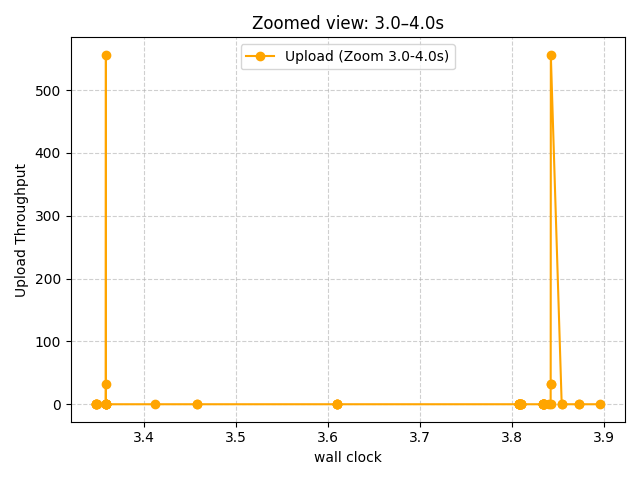
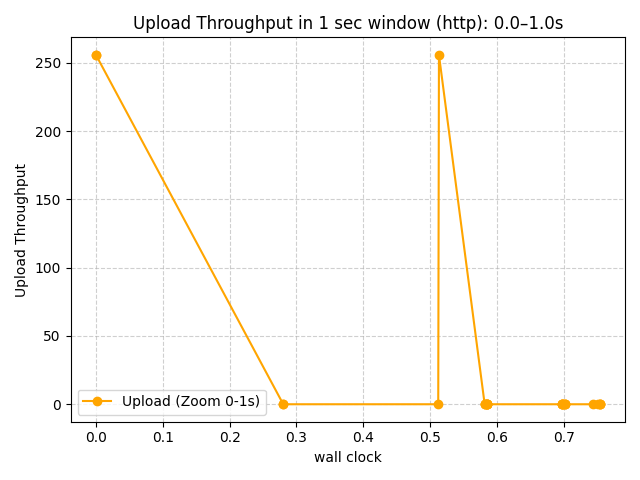
rtt working

diff --git a/traffic_analysis.py b/traffic_analysis.py
@@ -5,7 +5,7 @@ from collections import defaultdict
 import argparse
 
 # # ----------- CONFIG -------------
-# PCAP_FILE = "capture.pcap"
+# pcap_filename = "capture.pcap"
 # CLIENT_IP = "192.168.1.10"   # <-- replace with your machine's IP
 # WINDOW = 1.0                 # seconds (for throughput bins)
 # # --------------------------------
@@ -25,7 +25,7 @@ import argparse
 # # TCP tracking for RTT
 # unacked = {}  # key=(src,dst,seq) → timestamp
 
-# with open(PCAP_FILE, "rb") as f:
+# with open(pcap_filename, "rb") as f:
 #     pcap = dpkt.pcap.Reader(f)
 #     start_ts = None
     
@@ -46,7 +46,6 @@ import argparse
 #             continue
         
 #         tcp = ip.data
-        
 #         # Throughput classification (upload/download)
 #         window = int(rel_ts // WINDOW)
 #         if src == CLIENT_IP:
@@ -138,12 +137,12 @@ def perform_thpt(client_ip:str, server_ip:str, do_upload:bool, pcap_filename:str
     """
     client_ip_bytes = get_bytes_from_ip(client_ip)
     server_ip_bytes = get_bytes_from_ip(server_ip)
-    time_load_dict = {}
+    clock_thpt_dict = {}
     with open(pcap_filename, 'rb') as f:
         pcap = dpkt.pcap.Reader(f)
-        # ts is float (possibly the memory)
+        # time_stamp is the time stamp wireshark notes the packet
         # buffered_data is in bytes
-        cnt = 0
+        # so at time time_stamp, NIC saw these buffer_data on the wire
         start_time_stamp = None
         for time_stamp, buffered_data in pcap:
             if start_time_stamp is None:
@@ -151,78 +150,100 @@ def perform_thpt(client_ip:str, server_ip:str, do_upload:bool, pcap_filename:str
 
             time_duration = time_stamp - start_time_stamp
             
-            # initial assignment, peace
-            if time_duration not in time_load_dict:
-                time_load_dict[time_duration] = 0
+            # initial assignment
+            if time_duration not in clock_thpt_dict:
+                clock_thpt_dict[time_duration] = 0
             
             
             eth = dpkt.ethernet.Ethernet(buffered_data)
-            cnt += 1
             ip_data = eth.data
             
             if not isinstance(ip_data, dpkt.ip.IP):
-                print(f"skipping {time_duration}, ip mismatch")
+                # print(f"skipping {time_duration}, ip mismatch")
                 continue
             
             dst = ip_data.dst
             src = ip_data.src
             
-            if dst!=server_ip and src!=server_ip: continue
-
             tcp_data = ip_data.data
             
             if not isinstance(tcp_data, dpkt.tcp.TCP):
-                print(f"skipping {time_duration}, tcp mismatch")
                 continue
 
-            # print(f"{src} {dst} {client_ip_bytes}")
             if do_upload:
-                if src==client_ip_bytes: # may need to modify according to exactly server and client exchanges
-                    time_load_dict[time_duration] += len(tcp_data)
+                if src==client_ip_bytes and dst==server_ip_bytes: 
+                    clock_thpt_dict[time_duration] += len(tcp_data)
             else:
-                if dst==client_ip_bytes: # may need to modify according to exactly server and client exchanges
-                    time_load_dict[time_duration] += len(tcp_data)
+                if src==server_ip_bytes and dst==client_ip_bytes: 
+                    clock_thpt_dict[time_duration] += len(tcp_data)
 
-    print(time_load_dict)
-    print(cnt)
-    return [list(time_load_dict.keys()), list(time_load_dict.values())]
+    # print(clock_thpt_dict)
+    return list(clock_thpt_dict.keys()), list(clock_thpt_dict.values())
 
 def perform_rtt(client_ip:str, server_ip:str, do_upload:bool, pcap_filename:str) -> tuple[list]:
     """
     performs rtt analysis and return time and rtt variation
     """
-    pass # TODO
+    print(f"working with: client_ip: {client_ip}, server_ip: {server_ip} and pcap_filename: {pcap_filename}")
+    client_ip_bytes = get_bytes_from_ip(client_ip)
+    server_ip_bytes = get_bytes_from_ip(server_ip)
+    clock_rtt_dict = {}
+    to_ack = {}
+    with open(pcap_filename, 'rb') as f:
+        pcap = dpkt.pcap.Reader(f)
 
-import matplotlib.pyplot as plt
+        start_time = None
+        for time_stamp, buffered_data in pcap:
+            if start_time is None:
+                start_time = time_stamp
+            
+            time_duration = time_stamp - start_time
 
-def plot(x: list[float], y: list[float], xlabel: str, ylabel: str, label: str, title: str, save_loc: str, window_start: float = 3.0) -> None:
+            if time_duration not in clock_rtt_dict:
+                clock_rtt_dict[time_duration] = 0
+            
+            eth = dpkt.ethernet.Ethernet(buffered_data)
+
+            if not isinstance(eth.data, dpkt.ip.IP): continue
+
+            ip_data = eth.data
+
+            if not isinstance(ip_data.data, dpkt.tcp.TCP): continue
+
+            tcp_data = ip_data.data
+
+            src = ip_data.src
+            dst = ip_data.dst
+            
+            if src==client_ip_bytes and dst==server_ip_bytes:
+                key = tcp_data.seq + len(tcp_data.data)
+                to_ack[key] = time_duration
+                
+            elif src==server_ip_bytes and dst==client_ip_bytes:
+                key = tcp_data.ack
+                if key in to_ack:
+                    clock_rtt_dict[time_duration] = time_duration - to_ack[key]
+                    print(clock_rtt_dict[time_duration])
+    print(f"number of rtts recorded: {len(clock_rtt_dict)}")
+    return list(clock_rtt_dict.keys()), list(clock_rtt_dict.values())
+
+
+def plot(x: list[float], y: list[float], xlabel: str, ylabel: str, label: str, title: str, save_loc: str, window_start: float = 3.0, window_length:float=1e9) -> None:
     """
     General purpose plotter.
     Adds a subplot zoomed into a 1-second window [window_start, window_start+1).
     """
-    # # Full plot
-    # plt.figure(figsize=(10, 6))
-    # plt.subplot(2, 1, 1)
-    # plt.plot(x, y, label=label)
-    # plt.xlabel(xlabel)
-    # plt.ylabel(ylabel)
-    # plt.title(title + " (Full)")
-    # plt.legend()
-    # plt.grid(True, linestyle="--", alpha=0.6)
-
-    # 1-second window plot
     x_window, y_window = [], []
     for xi, yi in zip(x, y):
-        if window_start <= xi < window_start + 1:
+        if window_start <= xi < window_start + window_length:
             x_window.append(xi)
             y_window.append(yi)
 
-    # plt.subplot(2, 1, 2)
     if x_window:
         plt.plot(x_window, y_window, marker="o", color="orange", label=f"{label} (Zoom {window_start}-{window_start+1}s)")
     plt.xlabel(xlabel)
     plt.ylabel(ylabel)
-    plt.title(f"Zoomed view: {window_start:.1f}–{window_start+1:.1f}s")
+    plt.title(title)
     plt.legend()
     plt.grid(True, linestyle="--", alpha=0.6)
 
@@ -250,7 +271,7 @@ if __name__ == '__main__':
     do_upload = args.up
     do_download = args.down
     do_rtt = args.rtt
-    pcap_file = args.file
+    pcap_filename = args.file
 
     print(f"""
         client_ip = {args.client}
@@ -262,27 +283,29 @@ if __name__ == '__main__':
     """)
 
     if do_thpt:
-        x, y =perform_thpt(client_ip, server_ip, do_upload, "http.pcap")
+        x, y =perform_thpt(client_ip, server_ip, do_upload, pcap_filename)
+        y = [i * 8 for i in y] # for bits conversion from bytes
     
     else:
-        x, y = perform_rtt(client_ip, server_ip, do_upload)
+        x, y = perform_rtt(client_ip, server_ip, True, pcap_filename)
 
     # Plotting, can be made more effi
+    is_s = pcap_filename.split(".")[0][-1]=="s"
     if do_thpt:
         if do_upload:
-            save_loc = "up_throughput_s.png"
-            title = "Upload Throughput in 1 sec window"
+            save_loc = f"up_throughput{"_s" if is_s else ""}.png"
+            title = f"Upload Throughput in 1 sec window (http{"s" if is_s else ""})"
             ylabel = "Upload Throughput"
             label = "Upload"
         else:
-            save_loc = "down_throughput_s.png"
-            title = "Download Throughput in 1 sec window"
+            save_loc = f"down_throughput{"_s" if is_s else ""}.png"
+            title = f"Download Throughput in 1 sec window (http{"s" if is_s else ""})"
             ylabel = "Download Throughput"
             label = "Download"
     if do_rtt:
-        save_loc = "rtt_s.png"
-        title = "RTT in 1 sec window"
+        save_loc = f"rtt{"_s" if is_s else ""}.png"
+        title = f"RTT (http{"s" if is_s else ""})"
         ylabel = "RTT"
         label = "RTT"
 
-    plot(x, y, "wall clock", ylabel, label, title, save_loc)
+    plot(x, y, "wall clock", ylabel, label, title, save_loc, window_start=0)

diff --git a/Notes.md b/Notes.md
@@ -90,6 +90,7 @@
 - difference is that ethernet is cabled and wifi is not cabled
 - sudo apt net-tools for all the network tools such as ipconfig, ifconf
 - \- is converted to _ in parser.parse_args().<can use _ here>
+- chatgpt blends with convos, but google searches are rigid
 
 ## Submission
 
@@ -158,7 +159,37 @@ HTTP (Application Layer)    HTTP (Application Layer)
         TCP -------------------------- TCP 
            (this establishes connection)
 - so you build a port throigh which you can make transfers
+- the assurance of having data reliability loosens the constraint of programmer having to write data transfer codes (or any such relibility codes or communication safeguard softwares) whatsoever
+- TCP can tranfer continuous 8 bit octets in both direcctions by packaging some number of bytes into segs for transmission across the internet system
+- in general TCP decides when to block and allow packets in its own convienice
+- TCP must be able to recover data that is lost, duplicated, damaged, out of order by the internet.
+- Handles all this by attaching numbers to packets and recieving ACK from reciever.
+- if ACK is not recieved in the time out interval, the data is retransmitted
+- TCP time-out value is determined dynamically for each system, based on its round trip times
+- the sequence numbers may be used order the packets and eliminate dups
+- Checksum, ensures no damage, by checking them at the reciever and sending RETRANMSIT signal 
+- TCP send the window with ACK, to communicate the range of acceptable sequence. This indicates the Sender the allowed number of octets that the sender might send until further NOTICE
+- TCP must initialise and maintain a certain status information 
+- a connection = status information + sockets + sequence numbers + window sizes
+- each connection uniquly identified by a pair of sockets on each side
+- we may specify the TCP with security and precendence information 
+- sequence number keeps track of every byte sent out of the host
+- acknowlwdmwnt number is a track for every byte that has been recvcieved 
+- the local hosts sequence number usually matches the remote hosts ack number
+- local hosts ack number usually matches the remote hosts sequenne number
 
+seq 1000
+ack 1000
+
+
+seq 1000
+ack 1000
+
+- if running on the same IP Address, the port directs the information to a specific application program
+- httpvshttps runs on the same ip address, once data encapsulation is recieved from the lower levels this sent out the application layer by checking the port if it is 80 sends to HTTP other wise 430 then HTTPS
+- adheres to the fact of keeping the network to be dumb and end hosts to be smart
+- retransmissions can be found, if wither A != S + L
+- TCP sends out updated ack num
 
 ## wrt to assignment queries:
 
@@ -194,3 +225,42 @@ HTTP (Application Layer)    HTTP (Application Layer)
 
 - DNS resolution is done using UDP
 - Data Tramnsfer (more secire) done using TCP
+
+- ehternet class captures the hardware aspects
+- ip class captures the IP rules
+- tcp class captures the tcp rules
+- dpkt is very less documented
+- reader is a dump, packet data length of each record 
+- ts, buf this is the length of the record
+- use the dpkt class to have the buf parsed into more freinfly python objects sort of technique, which is dpkt.ethernet.Ethernet in this case only, you may find other according to requirement
+- eth decodes both IP and TCP layer information as well, parses higher layer protocols
+- when printed:
+Ethernet(src='\x00\x1a\xa0kUf' (MAC), dst='\x00\x13I\xae\x84,' (MAC), data=IP(src='\xc0\xa8\n\n', off=16384, dst='C\x17\x030', sum=25129, len=52, p=6, id=51105, data=TCP(seq=9632694, off_x2=128, ack=3382015884, win=54, sum=65372, flags=17, dport=80, sport=56145)))
+- src: Source MAC address
+- dst: destination MAC Address
+- data: Encapsulated in IP Object
+
+
+IP(src='\xc0\xa8\n\n', off=16384, dst='C\x17\x030', sum=25129, len=52, p=6, id=51105, data=TCP(seq=9632694, off_x2=128, ack=3382015884, win=54, sum=65372, flags=17, dport=80, sport=56145))
+- src: source IP Address
+- dst: destination IP Address
+- len: length of the packet
+- p: (not sure)
+- id: unique identification of the packet, during the conversation
+- data: Encapsulated TCP message
+
+TCP(seq=9632694, off_x2=128, ack=3382015884, win=54, sum=65372, flags=17, dport=80, sport=56145)
+- seq: specifies the sequence number of the first byte of data
+- off_x2: specifies the off set of the data portion in the segment
+- ack: Identiffies the portion of the highest block recieved 
+- win: specifies the amount of data the destination is willing to recieve
+- sum: checksum, verifying the intergrity of the packet
+- flags: Identify the segments valid
+- dport: destination port of TCP Header, identifies port in the Application Program
+- sport: source port of TCP Header, remmemeber that this was header, identifies port in the source Application Program
+
+- Ethernet class has this speacial property, of having parsed the data of higher levels of the protocol stack. This actually quite useful. All of this is obtained from the read buffer
+- Ethernet class, by the name atleast seems to be philosihically designed for the needs to understand the hardware.
+- As information passes through the layers, we can keep peeling of the higher encapsulations: Peel Ethernet you get IP, peel IP you get TCP. Very nice encapsulations. Eventually it is just the data, and is used by the Application Layer
+- For RTT calculation, associate the acknowledgment with the data packet whose sequence number S satisfies: A = S + L, where A is the acknowledgment number and L is the size (in bytes) of the data packet
+3382015884 = 9632694 + 
